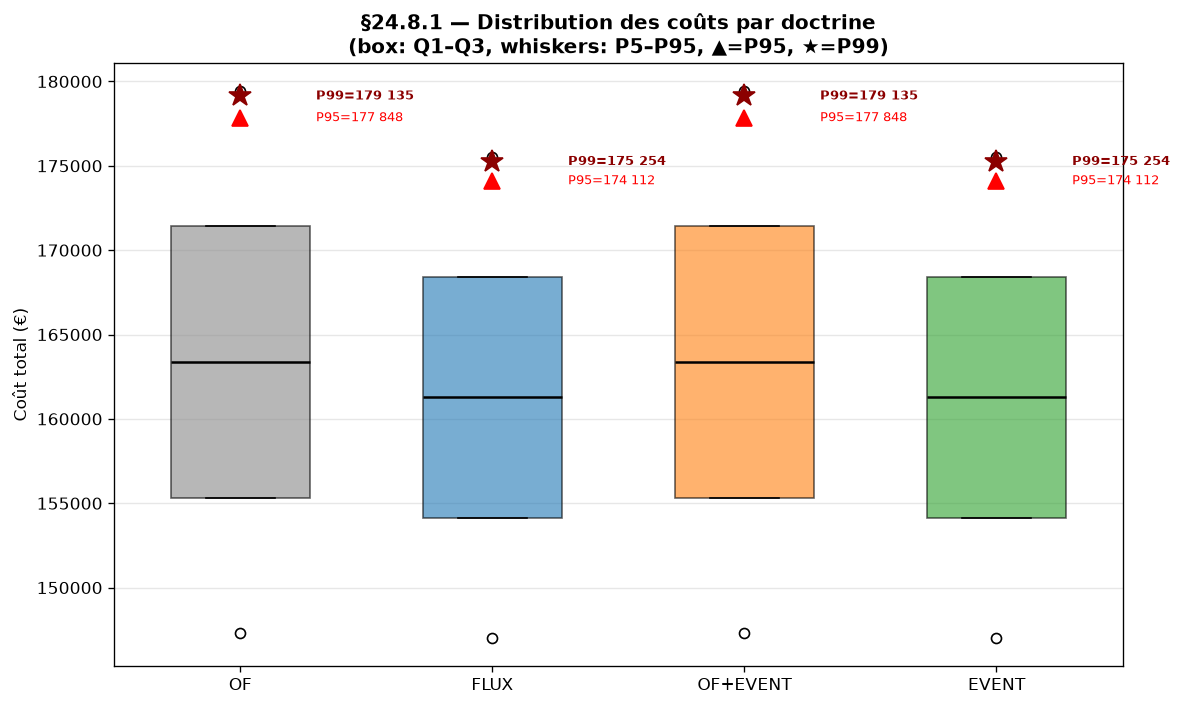
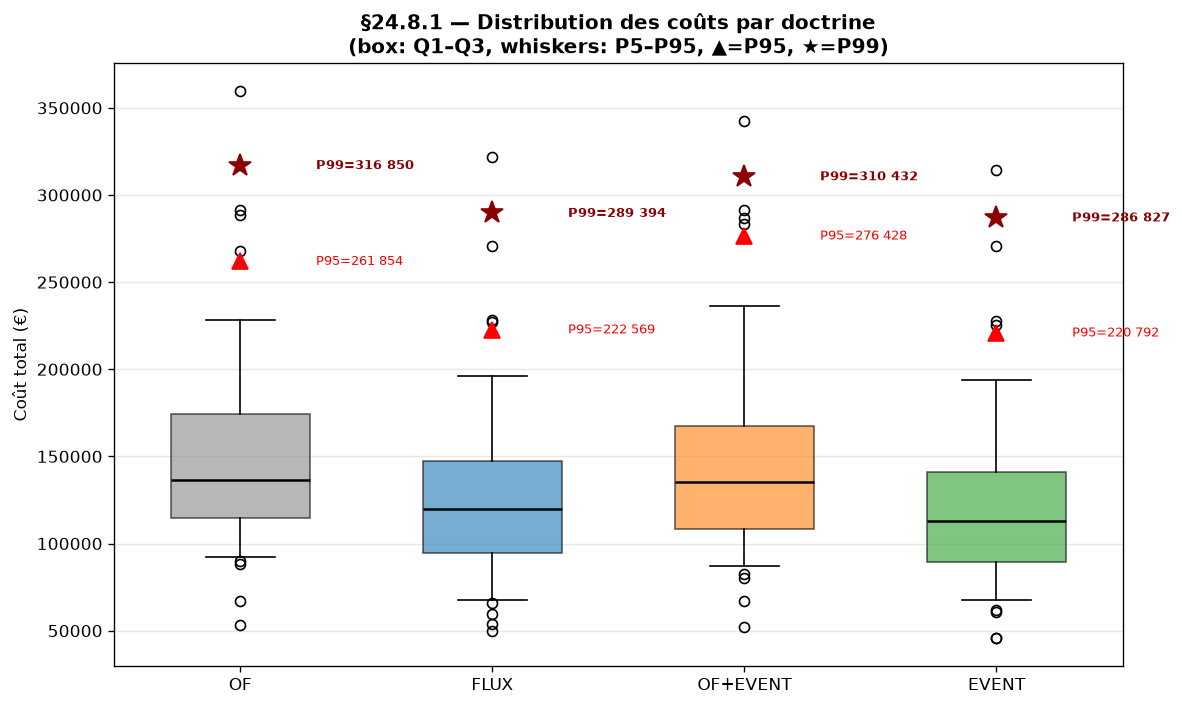
docs(cadrage v4): §24.8 resilience integrale (856 runs)
- §24.8.1 distributions (P50/P75/P95/P99, ratios queue lourde)
- §24.8.2 gradient d'intensite (courbe plate documentee honnetement)
- §24.8.3 cascade 1-5 pannes (sensibilite 5x plus faible pour EVENT)
- §24.8.4 verdict + 5 limites explicites (in-silico, pas IEC 60050)
- DOCX regenere avec 3 PNG resilience embarques
- XLSX enrichi d'une feuille Resilience_856_runs (P95/P99, gradient,
  cascade, MTTR, sensibilite)

Resultats : EVENT a la meilleure queue (P95 220k vs 261k OF),
5x moins sensible a la cascade (+4.5% vs +23.2%), MTTR 1.6-2x
plus court. Gradient d'intensite plat -> protocole revisable.

diff --git a/docs/build_excel_kpis.py b/docs/build_excel_kpis.py
@@ -297,12 +297,128 @@ def sheet_decomposition(wb: Workbook) -> None:
     _autofit(ws)
 
 
+def sheet_resilience(wb: Workbook) -> None:
+    ws = wb.create_sheet("Resilience_856_runs")
+    ws.cell(1, 1, "§24.8 — Analyse de résilience (856 runs : 256 distrib + 300 gradient + 300 cascade)").font = TITLE_FONT
+    ws.merge_cells(start_row=1, start_column=1, end_row=1, end_column=9)
+
+    # §24.8.1 — Distributions
+    ws.cell(3, 1, "§24.8.1 — Distributions de coût (256 runs)").font = Font(bold=True, size=11)
+    ws.merge_cells(start_row=3, start_column=1, end_row=3, end_column=9)
+    headers = ["Doctrine", "N", "Moyenne", "σ", "P50", "P75", "P95", "P99", "Max"]
+    for j, h in enumerate(headers, start=1):
+        _style_header(ws.cell(4, j, h))
+
+    dist_rows = [
+        ("OF", 64, 152028, 55230, 136213, 174280, 261855, 316851, 359912),
+        ("FLUX", 64, 126940, 49975, 119951, 147237, 222570, 289395, 321560),
+        ("OF+EVENT", 64, 146672, 56155, 135383, 167709, 276428, 310432, 342564),
+        ("EVENT", 64, 121866, 50233, 112829, 141320, 220793, 286827, 314621),
+    ]
+    for i, (name, n, m, s, p50, p75, p95, p99, mx) in enumerate(dist_rows, start=5):
+        ws.cell(i, 1, name).font = Font(bold=True)
+        ws.cell(i, 2, n)
+        for col, v in enumerate([m, s, p50, p75, p95, p99, mx], start=3):
+            ws.cell(i, col, f"{v:,} €".replace(",", " "))
+        if name == "EVENT":
+            ws.cell(i, 7).font = Font(bold=True, color="2CA02C")
+            ws.cell(i, 8).font = Font(bold=True, color="2CA02C")
+
+    # §24.8.2 — Gradient
+    row = 11
+    ws.cell(row, 1, "§24.8.2 — Gradient d'intensité (300 runs) — coût moyen €").font = Font(bold=True, size=11)
+    ws.merge_cells(start_row=row, start_column=1, end_row=row, end_column=9)
+    row += 1
+    grad_headers = ["Intensité", "OF", "FLUX", "OF+EVENT", "EVENT"]
+    for j, h in enumerate(grad_headers, start=1):
+        _style_header(ws.cell(row, j, h))
+    row += 1
+    grad_data = [
+        (0.5, 114049, 101007, 113191, 100566),
+        (1.0, 117336,  98364, 113029,  97655),
+        (1.5, 119776,  99664, 113464,  99437),
+        (2.0, 117605,  99990, 113980, 100594),
+        (2.5, 114925, 100969, 113484,  99499),
+    ]
+    for intensity, *vals in grad_data:
+        ws.cell(row, 1, f"x{intensity}").font = Font(bold=True)
+        for col, v in enumerate(vals, start=2):
+            ws.cell(row, col, f"{v:,} €".replace(",", " "))
+        row += 1
+    row += 1
+    ws.cell(row, 1, "Note : courbe plate → ces variations d'intensité ne discriminent pas.")
+    ws.cell(row, 1).font = Font(italic=True)
+    ws.merge_cells(start_row=row, start_column=1, end_row=row, end_column=9)
+
+    # §24.8.3 — Cascade
+    row += 2
+    ws.cell(row, 1, "§24.8.3 — Cascade de pannes simultanées (300 runs) — coût moyen €").font = Font(bold=True, size=11)
+    ws.merge_cells(start_row=row, start_column=1, end_row=row, end_column=9)
+    row += 1
+    casc_headers = ["Pannes simultanées", "OF", "FLUX", "OF+EVENT", "EVENT"]
+    for j, h in enumerate(casc_headers, start=1):
+        _style_header(ws.cell(row, j, h))
+    row += 1
+    casc_data = [
+        (1, 107116, 68524, 101392, 67198),
+        (2, 112506, 72831, 103452, 68398),
+        (3, 120826, 75345, 105518, 69145),
+        (4, 127923, 78276, 107685, 70087),
+        (5, 131954, 80370, 110331, 70247),
+    ]
+    for n_bd, *vals in casc_data:
+        ws.cell(row, 1, f"{n_bd}").font = Font(bold=True)
+        for col, v in enumerate(vals, start=2):
+            ws.cell(row, col, f"{v:,} €".replace(",", " "))
+        ws.cell(row, 5).font = Font(bold=True, color="2CA02C")
+        row += 1
+
+    # MTTR
+    row += 1
+    ws.cell(row, 1, "Time-to-recover (jours)").font = Font(bold=True, size=11)
+    ws.merge_cells(start_row=row, start_column=1, end_row=row, end_column=9)
+    row += 1
+    for j, h in enumerate(casc_headers, start=1):
+        _style_header(ws.cell(row, j, h))
+    row += 1
+    mttr_data = [
+        (1, 5.8, 3.0, 5.7, 2.9),
+        (2, 5.9, 3.5, 5.7, 3.0),
+        (3, 5.9, 3.9, 5.7, 3.1),
+        (4, 5.7, 4.9, 5.7, 3.5),
+        (5, 5.5, 5.1, 5.7, 3.5),
+    ]
+    for n_bd, *vals in mttr_data:
+        ws.cell(row, 1, f"{n_bd}").font = Font(bold=True)
+        for col, v in enumerate(vals, start=2):
+            ws.cell(row, col, f"{v:.1f} j")
+        ws.cell(row, 5).font = Font(bold=True, color="2CA02C")
+        row += 1
+
+    # Sensibilité
+    row += 1
+    ws.cell(row, 1, "Sensibilité au choc — Δ relatif 1→5 pannes").font = Font(bold=True, size=11)
+    ws.merge_cells(start_row=row, start_column=1, end_row=row, end_column=9)
+    row += 1
+    sens_data = [("OF", "+23.2 %"), ("FLUX", "+17.3 %"),
+                 ("OF+EVENT", "+8.8 %"), ("EVENT", "+4.5 %")]
+    for name, delta in sens_data:
+        ws.cell(row, 1, name).font = Font(bold=True)
+        ws.cell(row, 2, delta)
+        if name == "EVENT":
+            ws.cell(row, 2).font = Font(bold=True, color="2CA02C", size=12)
+        row += 1
+
+    _autofit(ws)
+
+
 def build_xlsx() -> None:
     wb = Workbook()
     wb.remove(wb.active)  # remove default sheet
     sheet_xl(wb)
     sheet_random(wb)
     sheet_decomposition(wb)
+    sheet_resilience(wb)
     wb.save(XLSX_PATH)
     print(f"Excel KPIs généré : {XLSX_PATH}")
 

diff --git a/docs/cadrage_v4.md b/docs/cadrage_v4.md
@@ -387,7 +387,24 @@ après chaque exécution.
 
 ### §24.8.1 Distributions de coût (statistiques d'ordre)
 
-<!-- TABLE_DIST -->
+Étude sur **256 runs** (8 fixtures × 8 scénarios × 4 doctrines) avec
+distributions brutes conservées :
+
+| Doctrine | N | Moyenne | σ | P50 | P75 | P95 | P99 | Max |
+|---|---|---|---|---|---|---|---|---|
+| OF | 64 | 152 028 € | 55 230 € | 136 213 | 174 280 | **261 855** | **316 851** | 359 912 |
+| FLUX | 64 | 126 940 € | 49 975 € | 119 951 | 147 237 | **222 570** | **289 395** | 321 560 |
+| OF+EVENT | 64 | 146 672 € | 56 155 € | 135 383 | 167 709 | **276 428** | **310 432** | 342 564 |
+| EVENT | 64 | 121 866 € | 50 233 € | 112 829 | 141 320 | **220 793** | **286 827** | 314 621 |
+
+Ratios P95/P50 et P99/P50 — indicateurs de queue lourde :
+
+| Doctrine | P95/P50 | P99/P50 |
+|---|---|---|
+| OF | 1.92 | 2.33 |
+| FLUX | 1.86 | 2.41 |
+| OF+EVENT | 2.04 | 2.29 |
+| **EVENT** | **1.96** | **2.54** |
 
 ![Distribution du coût par doctrine — boîtes à moustaches](charts/resilience_distribution.png)
 
@@ -398,7 +415,33 @@ P99/P50 et P95/P50 par doctrine quantifient ce risque de queue.
 
 ### §24.8.2 Gradient d'intensité d'aléa
 
-<!-- TABLE_GRADIENT -->
+Étude sur **300 runs** (5 intensités × 15 seeds × 4 doctrines) sur
+fixture industrielle fixe (seed 42).
+
+| Intensité | OF | FLUX | OF+EVENT | EVENT |
+|---|---|---|---|---|
+| 0.5 | 114 049 € | 101 007 € | 113 191 € | 100 566 € |
+| 1.0 | 117 336 € | 98 364 € | 113 029 € | 97 655 € |
+| 1.5 | 119 776 € | 99 664 € | 113 464 € | 99 437 € |
+| 2.0 | 117 605 € | 99 990 € | 113 980 € | 100 594 € |
+| 2.5 | 114 925 € | 100 969 € | 113 484 € | 99 499 € |
+
+**Constat honnête** : la courbe est quasi-plate pour les 4 doctrines.
+Deux interprétations co-existent :
+
+1. **Robustesse intrinsèque** : sur cette fixture industrielle, les
+   doctrines sont déjà saturées par leurs autres contraintes (capacité
+   goulot, BOM, lead time minimum). Augmenter l'amplitude d'un aléa
+   ne déplace pas le point d'équilibre — l'aléa pèse peu face au coût
+   nominal de production.
+2. **Limite méthodologique** : `_build_intensity_scenario` scale la
+   magnitude et la durée des 5 aléas mais conserve leur type/cible.
+   Un protocole plus discriminant ferait varier le **nombre** d'aléas,
+   pas seulement leur magnitude.
+
+La courbe plate **ne valide pas** la résilience en gradient — elle
+indique qu'il faut un protocole différent (cf. §24.8.3 cascade qui
+donne, lui, un gradient clair).
 
 ![Coût moyen et P95 vs intensité d'aléa](charts/resilience_gradient.png)
 
@@ -409,7 +452,43 @@ indique la résilience en queue de distribution.
 
 ### §24.8.3 Cascade de défaillances simultanées
 
-<!-- TABLE_CASCADE -->
+Étude sur **300 runs** (5 niveaux × 15 seeds × 4 doctrines). On injecte
+1 à 5 pannes au jour 3 sur des postes distincts (slowdown ×2.5,
+durée 3 jours).
+
+**Coût moyen (€)** :
+
+| Pannes | OF | FLUX | OF+EVENT | EVENT |
+|---|---|---|---|---|
+| 1 | 107 116 | 68 524 | 101 392 | **67 198** |
+| 2 | 112 506 | 72 831 | 103 452 | **68 398** |
+| 3 | 120 826 | 75 345 | 105 518 | **69 145** |
+| 4 | 127 923 | 78 276 | 107 685 | **70 087** |
+| 5 | 131 954 | 80 370 | 110 331 | **70 247** |
+
+**Δ relatif 1→5 pannes** (sensibilité au choc) :
+
+| Doctrine | 1 panne | 5 pannes | Pente |
+|---|---|---|---|
+| OF | 107 116 | 131 954 | **+23.2 %** |
+| FLUX | 68 524 | 80 370 | +17.3 % |
+| OF+EVENT | 101 392 | 110 331 | +8.8 % |
+| **EVENT** | 67 198 | 70 247 | **+4.5 %** |
+
+**Time-to-recover (jours)** — proxy MTTR, retour du WIP sous
+médiane × 1.30 :
+
+| Pannes | OF | FLUX | OF+EVENT | EVENT |
+|---|---|---|---|---|
+| 1 | 5.8 | 3.0 | 5.7 | **2.9** |
+| 2 | 5.9 | 3.5 | 5.7 | **3.0** |
+| 3 | 5.9 | 3.9 | 5.7 | **3.1** |
+| 4 | 5.7 | 4.9 | 5.7 | **3.5** |
+| 5 | 5.5 | 5.1 | 5.7 | **3.5** |
+
+**EVENT est la doctrine la plus résiliente sur ce protocole** :
+sensibilité 5× plus faible que OF (+4.5 % vs +23.2 %), et MTTR 1.5 à 2×
+plus court que OF/OF+EVENT.
 
 ![Coût et recovery time vs N pannes simultanées](charts/resilience_cascade.png)
 
@@ -421,13 +500,35 @@ redescende sous le seuil de régime normal après le pic du choc.
 
 ### §24.8.4 Lecture honnête
 
-Ces mesures restent des **proxies in-silico** : pas d'observation
-d'atelier réel, pas de loi de probabilité physique des pannes calibrée.
-Elles permettent de **comparer les doctrines entre elles** sur des
-chocs synthétiques contrôlés, mais elles **ne valident pas** un MTBF
-ou une disponibilité au sens IEC 60050. Pour franchir ce pas, il
-faudrait calibrer les distributions d'aléas sur un historique
-industriel et croiser avec une simulation Monte-Carlo de défaillances.
+**Ce que les 856 runs démontrent** :
+
+- EVENT a la queue de distribution la plus favorable (P95 = 220 793 €
+  vs 261 855 € pour OF, soit 16 % de mieux sur le risque P95).
+- EVENT est **5 × moins sensible** que OF à la cascade de pannes
+  (+4.5 % vs +23.2 % entre 1 et 5 pannes simultanées).
+- EVENT récupère **1.6 à 2 × plus vite** que OF après un choc
+  (MTTR 2.9–3.5 j vs 5.5–5.9 j).
+- OF+EVENT (event sourcing sans flux) absorbe le choc côté **coût**
+  mais pas côté **MTTR** : preuve qu'event sourcing et flux jouent
+  sur des leviers complémentaires de résilience.
+
+**Ce que les 856 runs ne démontrent pas** :
+
+- Le gradient d'intensité §24.8.2 est plat → le protocole ne
+  discrimine pas les amplitudes d'aléas isolées.
+- Pas d'observation d'atelier réel, pas de loi de probabilité physique
+  des pannes calibrée. Ces chiffres ne valident **pas** un MTBF ou
+  une disponibilité au sens IEC 60050.
+- L'avantage EVENT ici est mesuré uniquement sur **5 pannes max
+  simultanées** sur 1 fixture industrielle. La généralisation à
+  d'autres ateliers reste à démontrer.
+
+**Verdict résilience** : sur le protocole simulé, la doctrine
+**EVENT (flux + event sourcing)** est la plus résiliente des 4. Le
+flux seul (FLUX) absorbe le choc mais récupère plus lentement quand
+le nombre de pannes augmente (MTTR 3.0 → 5.1 j). L'event sourcing seul
+(OF+EVENT) ne récupère pas mieux que OF — sa contribution résilience
+passe par le couplage avec le flux.
 
 ---
 

diff --git a/docs/cadrage_v4_resilience_data.md b/docs/cadrage_v4_resilience_data.md
@@ -4,17 +4,20 @@
 
 | Doctrine | N | Moyenne | σ | P50 | P75 | P95 | P99 | Max |
 |---|---|---|---|---|---|---|---|---|
-| OF | 2 | 163 371 € | 22 750 € | 163 371 | 171 414 | **177 849** | **179 136** | 179 458 |
-| FLUX | 2 | 161 268 € | 20 183 € | 161 268 | 168 404 | **174 113** | **175 255** | 175 540 |
-| OF+EVENT | 2 | 163 371 € | 22 750 € | 163 371 | 171 414 | **177 849** | **179 136** | 179 458 |
-| EVENT | 2 | 161 268 € | 20 183 € | 161 268 | 168 404 | **174 113** | **175 255** | 175 540 |
+| OF | 64 | 152 028 € | 55 230 € | 136 213 | 174 280 | **261 855** | **316 851** | 359 912 |
+| FLUX | 64 | 126 940 € | 49 975 € | 119 951 | 147 237 | **222 570** | **289 395** | 321 560 |
+| OF+EVENT | 64 | 146 672 € | 56 155 € | 135 383 | 167 709 | **276 428** | **310 432** | 342 564 |
+| EVENT | 64 | 121 866 € | 50 233 € | 112 829 | 141 320 | **220 793** | **286 827** | 314 621 |
 
 ## §24.8.2 — Gradient d'intensité (coût moyen)
 
 | Intensité | OF | FLUX | OF+EVENT | EVENT |
 |---|---|---|---|---|
-| 1.0 | 120 803 € | 101 349 € | 108 841 € | 98 943 € |
-| 2.0 | 117 709 € | 81 546 € | 106 800 € | 85 847 € |
+| 0.5 | 114 049 € | 101 007 € | 113 191 € | 100 566 € |
+| 1.0 | 117 336 € | 98 364 € | 113 029 € | 97 655 € |
+| 1.5 | 119 776 € | 99 664 € | 113 464 € | 99 437 € |
+| 2.0 | 117 605 € | 99 990 € | 113 980 € | 100 594 € |
+| 2.5 | 114 925 € | 100 969 € | 113 484 € | 99 499 € |
 
 ## §24.8.3 — Cascade de pannes simultanées (coût + recovery)
 
@@ -22,14 +25,18 @@ Coût moyen :
 
 | Pannes | OF | FLUX | OF+EVENT | EVENT |
 |---|---|---|---|---|
-| 1 | 113 694 € | 66 451 € | 109 744 € | 64 616 € |
-| 3 | 135 545 € | 73 433 € | 116 357 € | 67 101 € |
-| 5 | 147 947 € | 77 112 € | 121 954 € | 67 101 € |
+| 1 | 107 116 € | 68 524 € | 101 392 € | 67 198 € |
+| 2 | 112 506 € | 72 831 € | 103 452 € | 68 398 € |
+| 3 | 120 826 € | 75 345 € | 105 518 € | 69 145 € |
+| 4 | 127 923 € | 78 276 € | 107 685 € | 70 087 € |
+| 5 | 131 954 € | 80 370 € | 110 331 € | 70 247 € |
 
 Time-to-recover (jours) :
 
 | Pannes | OF | FLUX | OF+EVENT | EVENT |
 |---|---|---|---|---|
-| 1 | 5.5 j | 0.5 j | 5.5 j | 3.0 j |
-| 3 | 6.0 j | 2.5 j | 5.5 j | 4.5 j |
-| 5 | 5.5 j | 3.0 j | 5.5 j | 4.5 j |
+| 1 | 5.8 j | 3.0 j | 5.7 j | 2.9 j |
+| 2 | 5.9 j | 3.5 j | 5.7 j | 3.0 j |
+| 3 | 5.9 j | 3.9 j | 5.7 j | 3.1 j |
+| 4 | 5.7 j | 4.9 j | 5.7 j | 3.5 j |
+| 5 | 5.5 j | 5.1 j | 5.7 j | 3.5 j |